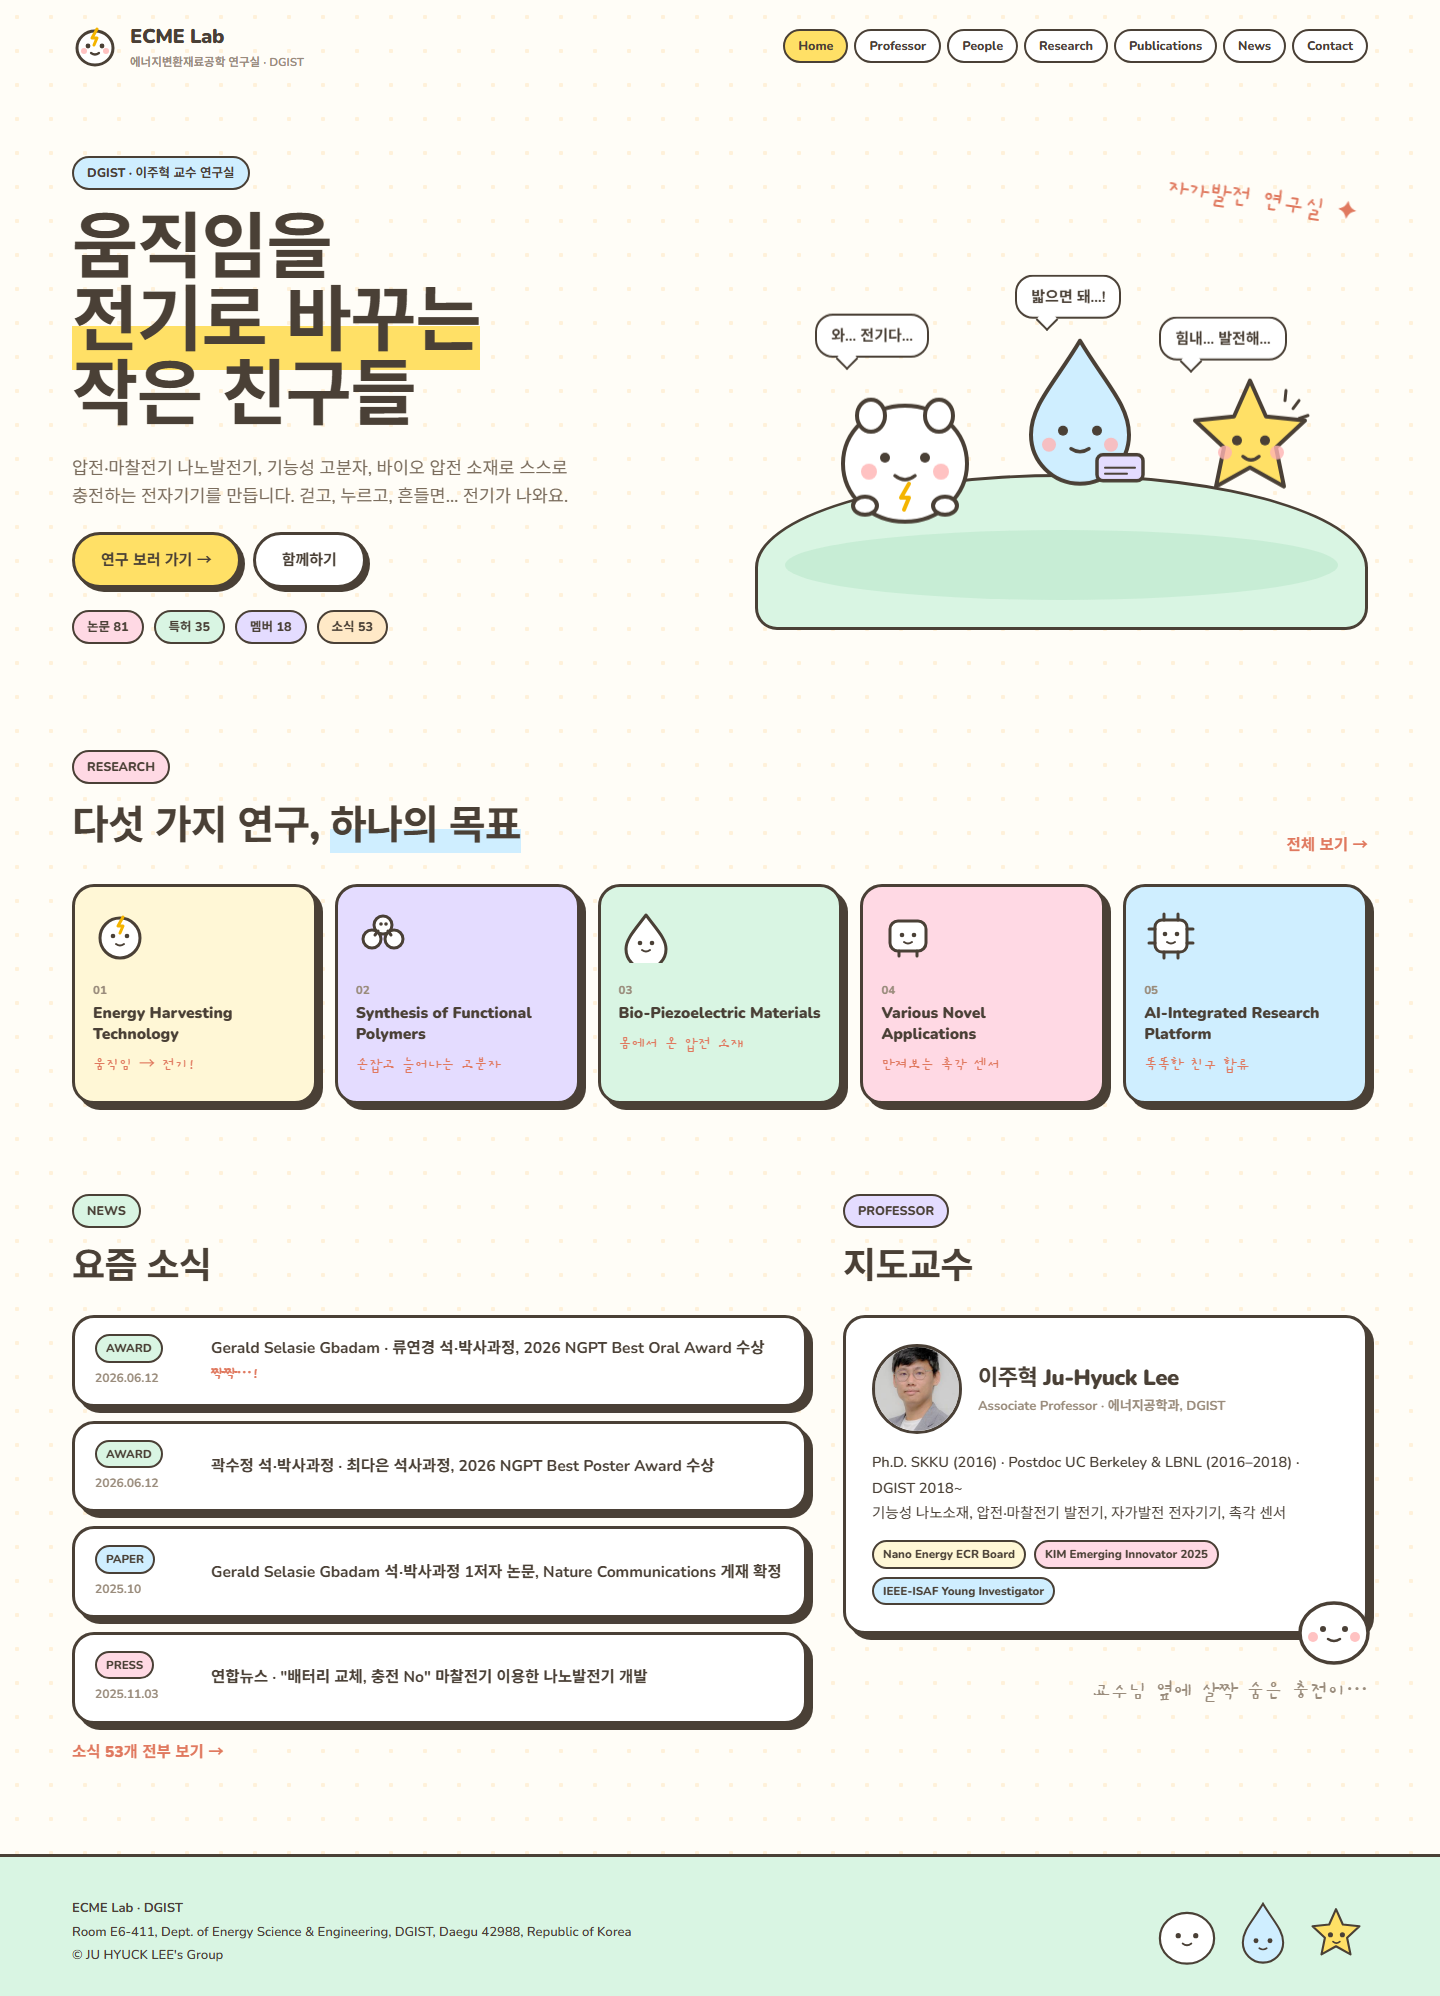
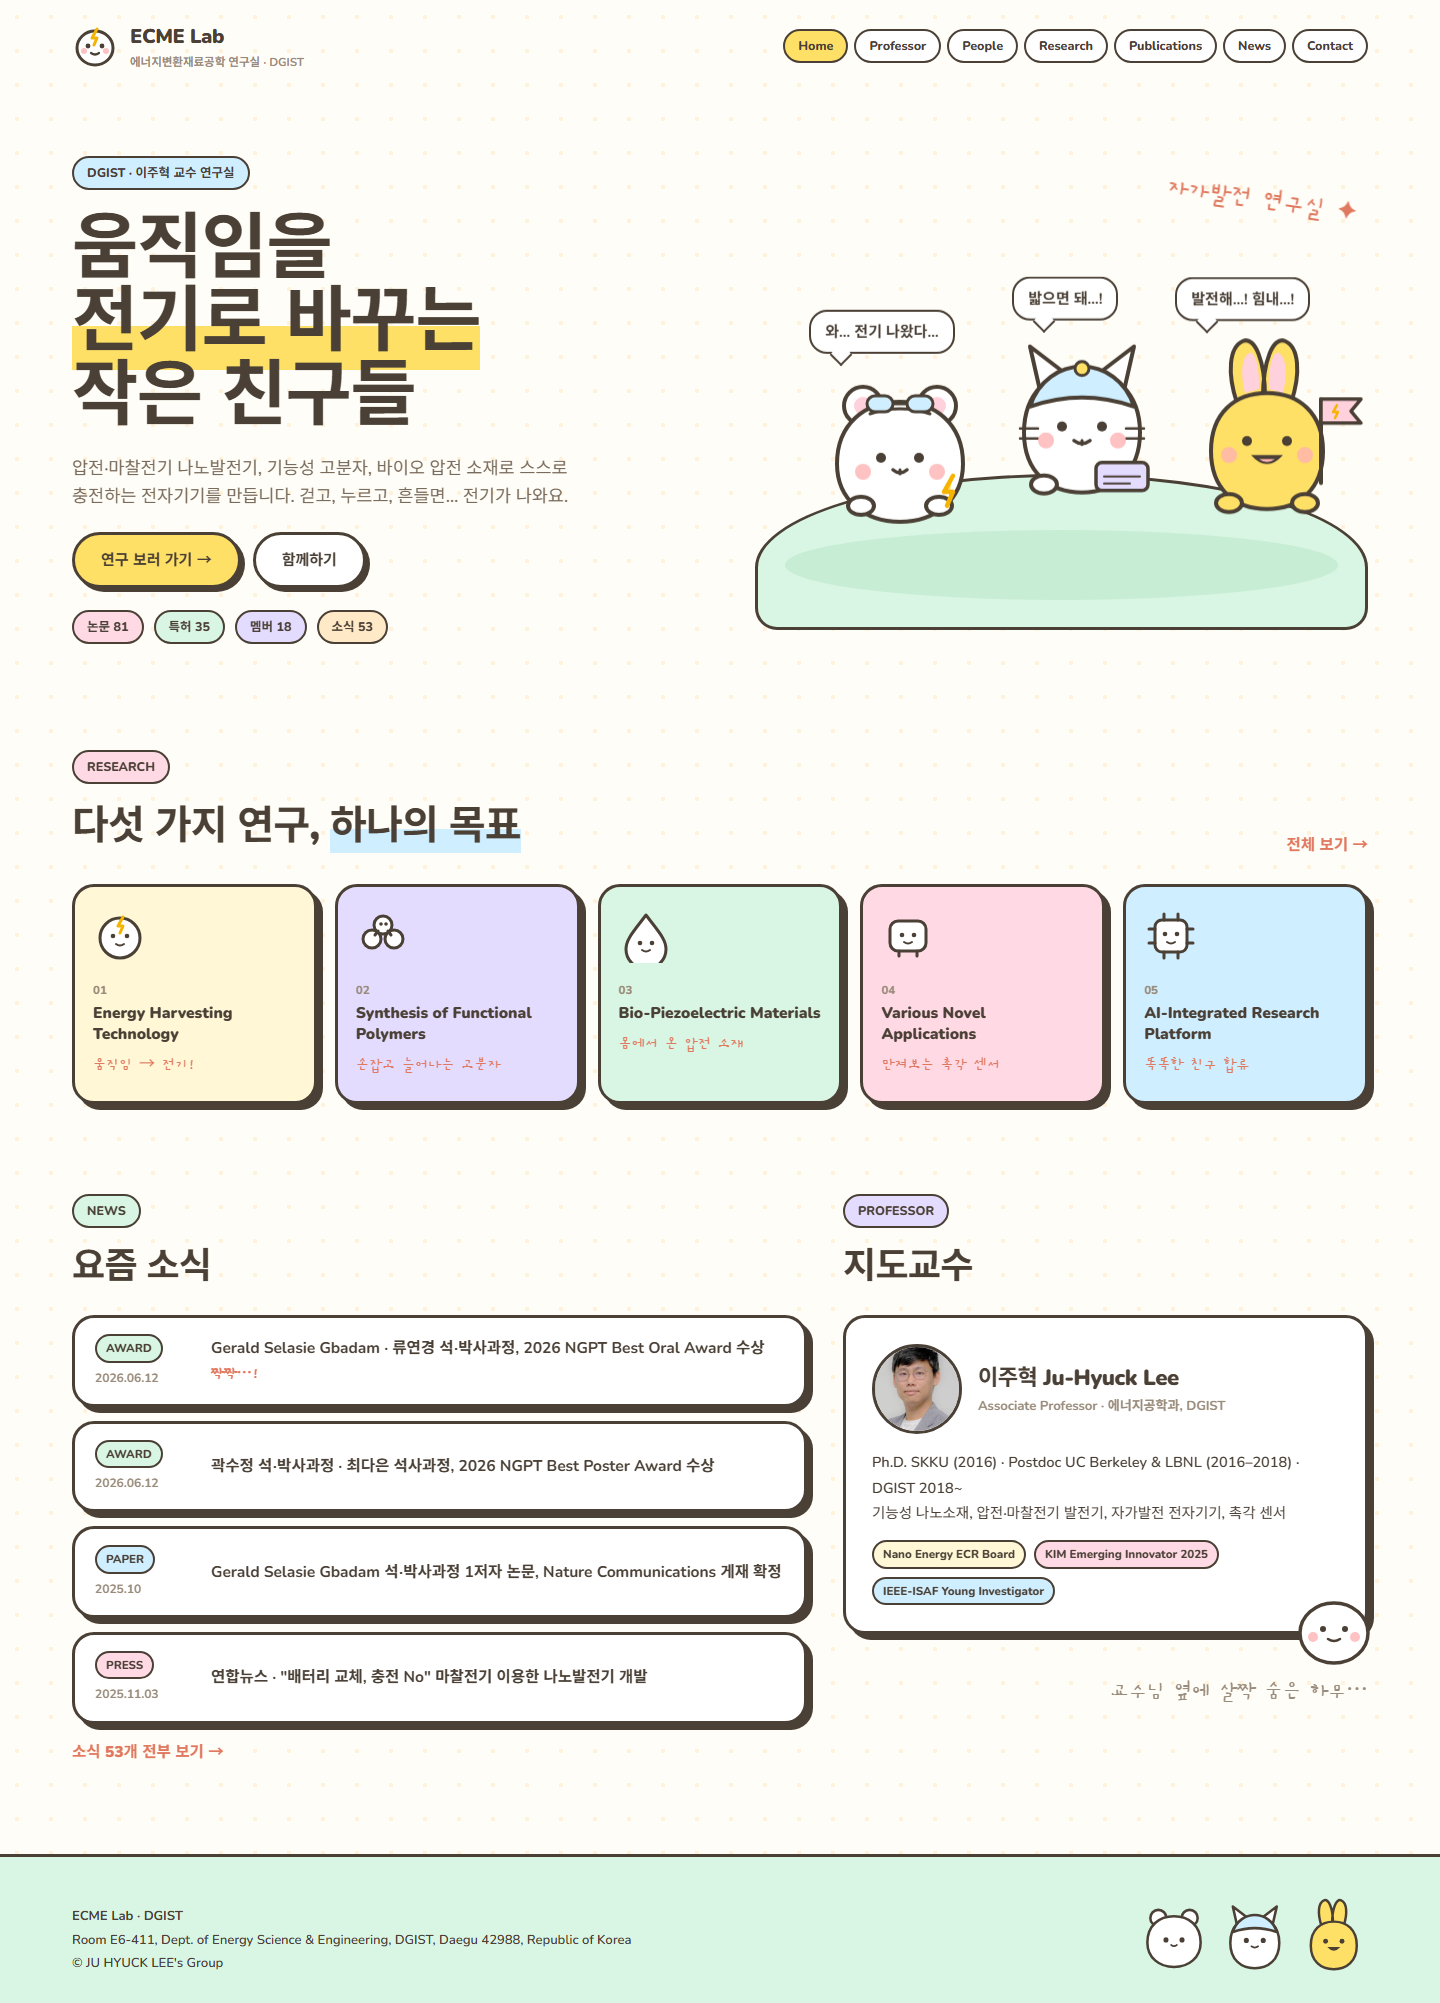
Mascot draft CH: redraw trio (hamster, cat, rabbit) as lab mascots

diff --git a/design-drafts/DirectionCH.dc.html b/design-drafts/DirectionCH.dc.html
@@ -55,20 +55,52 @@
     <div style="position: relative; height: 520px;">
       <div style="position: absolute; left: 0; right: 0; bottom: 30px; height: 150px; background: #d9f5e3; border: 3px solid #4a4036; border-radius: 50% 50% 22px 22px / 60% 60% 22px 22px;"></div>
       <div style="position: absolute; left: 30px; right: 30px; bottom: 60px; height: 70px; background: #bfe9cf; border-radius: 50%; opacity: .7;"></div>
-      <!-- mascot 1: 충전이 (round white blob, lightning belly) -->
-      <div class="ch-bob" style="position: absolute; left: 70px; bottom: 120px;">
-        <div class="ch-bubble" style="left: -10px; top: -58px;">와… 전기다…</div>
-        <svg width="160" height="160" viewBox="0 0 160 160"><ellipse cx="80" cy="92" rx="62" ry="58" fill="#fff" stroke="#4a4036" stroke-width="4"/><ellipse cx="46" cy="44" rx="14" ry="16" fill="#fff" stroke="#4a4036" stroke-width="4"/><ellipse cx="114" cy="44" rx="14" ry="16" fill="#fff" stroke="#4a4036" stroke-width="4"/><circle cx="60" cy="86" r="5" fill="#4a4036"/><circle cx="100" cy="86" r="5" fill="#4a4036"/><path d="M70 104q10 8 20 0" stroke="#4a4036" stroke-width="3.5" fill="none" stroke-linecap="round"/><circle cx="44" cy="100" r="8" fill="#ffb3b3" opacity=".8"/><circle cx="116" cy="100" r="8" fill="#ffb3b3" opacity=".8"/><path d="M84 112l-8 14h8l-5 12" stroke="#f4b400" stroke-width="4" fill="none" stroke-linecap="round" stroke-linejoin="round"/><ellipse cx="40" cy="134" rx="12" ry="9" fill="#fff" stroke="#4a4036" stroke-width="4"/><ellipse cx="120" cy="134" rx="12" ry="9" fill="#fff" stroke="#4a4036" stroke-width="4"/></svg>
+      <!-- mascot 1: 하무 — hamster-like, white, round ears, goggles on head, holding a lightning bolt -->
+      <div class="ch-bob" style="position: absolute; left: 60px; bottom: 110px;">
+        <div class="ch-bubble" style="left: -6px; top: -56px;">와… 전기 나왔다…</div>
+        <svg width="170" height="175" viewBox="0 0 170 175">
+          <circle cx="48" cy="40" r="19" fill="#fff" stroke="#4a4036" stroke-width="4"/><circle cx="48" cy="40" r="9" fill="#ffd1dc"/>
+          <circle cx="122" cy="40" r="19" fill="#fff" stroke="#4a4036" stroke-width="4"/><circle cx="122" cy="40" r="9" fill="#ffd1dc"/>
+          <path d="M22 98c0-40 28-62 63-62s63 22 63 62c0 36-28 58-63 58S22 134 22 98z" fill="#fff" stroke="#4a4036" stroke-width="4"/>
+          <path d="M55 48q30-10 60 0" stroke="#4a4036" stroke-width="3" fill="none" stroke-linecap="round"/>
+          <rect x="52" y="30" width="26" height="16" rx="8" fill="#cfeeff" stroke="#4a4036" stroke-width="3"/><rect x="92" y="30" width="26" height="16" rx="8" fill="#cfeeff" stroke="#4a4036" stroke-width="3"/><path d="M78 38h14" stroke="#4a4036" stroke-width="3"/>
+          <circle cx="66" cy="92" r="5" fill="#4a4036"/><circle cx="104" cy="92" r="5" fill="#4a4036"/>
+          <path d="M78 104q7 6 14 0" stroke="#4a4036" stroke-width="3.5" fill="none" stroke-linecap="round"/><path d="M85 104v4" stroke="#4a4036" stroke-width="3" stroke-linecap="round"/>
+          <circle cx="48" cy="106" r="8" fill="#ffb3b3" opacity=".8"/><circle cx="122" cy="106" r="8" fill="#ffb3b3" opacity=".8"/>
+          <ellipse cx="46" cy="140" rx="13" ry="9" fill="#fff" stroke="#4a4036" stroke-width="4"/><ellipse cx="124" cy="140" rx="13" ry="9" fill="#fff" stroke="#4a4036" stroke-width="4"/>
+          <path d="M138 110l-9 16h9l-6 14" stroke="#f4b400" stroke-width="4.5" fill="#ffe066" stroke-linecap="round" stroke-linejoin="round"/>
+        </svg>
       </div>
-      <!-- mascot 2: 압전이 (blue droplet) holding a tile -->
-      <div class="ch-bob ch-bob2" style="position: absolute; left: 250px; bottom: 150px;">
-        <div class="ch-bubble" style="left: 10px; top: -52px;">밟으면 돼…!</div>
-        <svg width="150" height="170" viewBox="0 0 150 170"><path d="M75 14C50 56 26 78 26 108a49 49 0 0 0 98 0c0-30-24-52-49-94z" fill="#cfeeff" stroke="#4a4036" stroke-width="4" stroke-linejoin="round"/><circle cx="58" cy="104" r="5" fill="#4a4036"/><circle cx="92" cy="104" r="5" fill="#4a4036"/><path d="M66 122q9 6 18 0" stroke="#4a4036" stroke-width="3.5" fill="none" stroke-linecap="round"/><circle cx="44" cy="118" r="7" fill="#ffb3b3" opacity=".8"/><circle cx="106" cy="118" r="7" fill="#ffb3b3" opacity=".8"/><rect x="92" y="128" width="46" height="26" rx="6" fill="#e4dcff" stroke="#4a4036" stroke-width="3.5"/><path d="M100 141h30M100 147h22" stroke="#4a4036" stroke-width="2" stroke-linecap="round"/></svg>
+      <!-- mascot 2: 나비 — cat-like, white with a pale-blue lab beanie, whiskers, holding a nanogenerator tile -->
+      <div class="ch-bob ch-bob2" style="position: absolute; left: 245px; bottom: 140px;">
+        <div class="ch-bubble" style="left: 12px; top: -52px;">밟으면 돼…!</div>
+        <svg width="165" height="180" viewBox="0 0 165 180">
+          <path d="M40 62L30 18l34 26zM124 62l10-44-34 26z" fill="#fff" stroke="#4a4036" stroke-width="4" stroke-linejoin="round"/>
+          <path d="M24 104c0-40 26-62 58-62s58 22 58 62-26 60-58 60-58-20-58-60z" fill="#fff" stroke="#4a4036" stroke-width="4"/>
+          <path d="M30 78c8-26 30-40 52-40s44 14 52 40c-18-6-36-9-52-9s-34 3-52 9z" fill="#cfeeff" stroke="#4a4036" stroke-width="4" stroke-linejoin="round"/>
+          <circle cx="82" cy="40" r="7" fill="#ffe066" stroke="#4a4036" stroke-width="3"/>
+          <circle cx="62" cy="98" r="5" fill="#4a4036"/><circle cx="102" cy="98" r="5" fill="#4a4036"/>
+          <path d="M74 112q8 6 16 0" stroke="#4a4036" stroke-width="3.5" fill="none" stroke-linecap="round"/><path d="M82 112v4" stroke="#4a4036" stroke-width="3" stroke-linecap="round"/>
+          <path d="M20 100h18M20 110h18M126 100h18M126 110h18" stroke="#4a4036" stroke-width="2.5" stroke-linecap="round"/>
+          <circle cx="46" cy="112" r="8" fill="#ffb3b3" opacity=".8"/><circle cx="118" cy="112" r="8" fill="#ffb3b3" opacity=".8"/>
+          <rect x="96" y="134" width="52" height="28" rx="6" fill="#e4dcff" stroke="#4a4036" stroke-width="3.5"/><path d="M104 148h36M104 155h26" stroke="#4a4036" stroke-width="2" stroke-linecap="round"/>
+          <ellipse cx="44" cy="156" rx="13" ry="9" fill="#fff" stroke="#4a4036" stroke-width="4"/>
+        </svg>
       </div>
-      <!-- mascot 3: 마찰이 (yellow star-ish) -->
-      <div class="ch-bob ch-bob3" style="position: absolute; left: 420px; bottom: 125px;">
-        <div class="ch-bubble" style="left: -16px; top: -52px;">힘내… 발전해…</div>
-        <svg width="150" height="150" viewBox="0 0 150 150"><path d="M75 12l16 36 39 4-29 27 8 39-34-19-34 19 8-39L20 52l39-4z" fill="#ffe066" stroke="#4a4036" stroke-width="4" stroke-linejoin="round"/><circle cx="62" cy="72" r="5" fill="#4a4036"/><circle cx="90" cy="72" r="5" fill="#4a4036"/><path d="M68 88q8 7 16 0" stroke="#4a4036" stroke-width="3.5" fill="none" stroke-linecap="round"/><circle cx="50" cy="84" r="7" fill="#ffb3b3" opacity=".8"/><circle cx="102" cy="84" r="7" fill="#ffb3b3" opacity=".8"/><path d="M118 40l6-8M124 50l9-3M110 32l1-10" stroke="#4a4036" stroke-width="3" stroke-linecap="round"/></svg>
+      <!-- mascot 3: 토토 — rabbit-like, yellow, long ears, wide happy mouth, waving a flag -->
+      <div class="ch-bob ch-bob3" style="position: absolute; left: 430px; bottom: 120px;">
+        <div class="ch-bubble" style="left: -10px; top: -56px;">발전해…! 힘내…!</div>
+        <svg width="190" height="190" viewBox="0 0 190 190">
+          <path d="M52 70c-10-30-8-56 6-62 12-5 22 20 22 56zM106 70c10-30 8-56-6-62-12-5-22 20-22 56z" fill="#ffe066" stroke="#4a4036" stroke-width="4" stroke-linejoin="round"/>
+          <path d="M60 60c-5-20-3-36 4-40 6-3 11 14 10 36zM98 60c5-20 3-36-4-40-6-3-11 14-10 36z" fill="#ffd1dc"/>
+          <path d="M26 118c0-38 24-58 56-58s56 20 56 58-24 58-56 58-56-20-56-58z" fill="#ffe066" stroke="#4a4036" stroke-width="4"/>
+          <circle cx="62" cy="108" r="5" fill="#4a4036"/><circle cx="102" cy="108" r="5" fill="#4a4036"/>
+          <path d="M66 122q16 18 32 0z" fill="#4a4036"/><path d="M74 126q8 6 16 0" fill="#ffb3b3"/>
+          <circle cx="44" cy="122" r="8" fill="#ffb3b3" opacity=".8"/><circle cx="120" cy="122" r="8" fill="#ffb3b3" opacity=".8"/>
+          <ellipse cx="44" cy="170" rx="13" ry="9" fill="#ffe066" stroke="#4a4036" stroke-width="4"/><ellipse cx="120" cy="170" rx="13" ry="9" fill="#ffe066" stroke="#4a4036" stroke-width="4"/>
+          <path d="M136 150V66" stroke="#4a4036" stroke-width="4" stroke-linecap="round"/><path d="M136 66h40l-10 12 10 12h-40z" fill="#ffd1dc" stroke="#4a4036" stroke-width="3.5" stroke-linejoin="round"/>
+          <path d="M152 72l-4 7h5l-3 6" stroke="#f4b400" stroke-width="2.5" fill="none" stroke-linecap="round" stroke-linejoin="round"/>
+        </svg>
       </div>
       <div class="ch-hand" style="position: absolute; right: 10px; top: 40px; font-size: 26px; color: #e0795f; transform: rotate(8deg);">자가발전 연구실 ✦</div>
     </div>
@@ -107,7 +139,7 @@
         <div style="display: flex; flex-wrap: wrap; gap: 8px; margin-top: 14px;"><span class="ch-tag" style="background: #fff7d6;">Nano Energy ECR Board</span><span class="ch-tag" style="background: #ffd9e4;">KIM Emerging Innovator 2025</span><span class="ch-tag" style="background: #cfeeff;">IEEE-ISAF Young Investigator</span></div>
         <svg width="90" height="80" viewBox="0 0 90 80" style="position: absolute; right: -14px; bottom: -34px;"><ellipse cx="45" cy="48" rx="34" ry="30" fill="#fff" stroke="#4a4036" stroke-width="3.5"/><circle cx="34" cy="44" r="3" fill="#4a4036"/><circle cx="56" cy="44" r="3" fill="#4a4036"/><path d="M39 54q6 4 12 0" stroke="#4a4036" stroke-width="2.5" fill="none" stroke-linecap="round"/><circle cx="24" cy="52" r="5" fill="#ffb3b3" opacity=".8"/><circle cx="66" cy="52" r="5" fill="#ffb3b3" opacity=".8"/></svg>
       </div>
-      <div class="ch-hand" style="margin-top: 40px; font-size: 22px; color: #9a8c7c; text-align: right;">교수님 옆에 살짝 숨은 충전이…</div>
+      <div class="ch-hand" style="margin-top: 40px; font-size: 22px; color: #9a8c7c; text-align: right;">교수님 옆에 살짝 숨은 하무…</div>
     </div>
   </div>
   <!-- footer hill -->
@@ -115,9 +147,9 @@
     <div style="display: flex; justify-content: space-between; align-items: flex-end;">
       <div style="font-size: 13px; color: #4a4036; line-height: 1.8;"><b>ECME Lab · DGIST</b><br>Room E6-411, Dept. of Energy Science &amp; Engineering, DGIST, Daegu 42988, Republic of Korea<br>© JU HYUCK LEE's Group</div>
       <div style="display: flex; gap: 10px; align-items: flex-end;">
-        <svg width="70" height="70" viewBox="0 0 160 160"><ellipse cx="80" cy="92" rx="62" ry="58" fill="#fff" stroke="#4a4036" stroke-width="5"/><circle cx="60" cy="86" r="6" fill="#4a4036"/><circle cx="100" cy="86" r="6" fill="#4a4036"/><path d="M70 104q10 8 20 0" stroke="#4a4036" stroke-width="4" fill="none" stroke-linecap="round"/></svg>
-        <svg width="62" height="70" viewBox="0 0 150 170"><path d="M75 14C50 56 26 78 26 108a49 49 0 0 0 98 0c0-30-24-52-49-94z" fill="#cfeeff" stroke="#4a4036" stroke-width="5"/><circle cx="58" cy="104" r="6" fill="#4a4036"/><circle cx="92" cy="104" r="6" fill="#4a4036"/><path d="M66 122q9 6 18 0" stroke="#4a4036" stroke-width="4" fill="none" stroke-linecap="round"/></svg>
-        <svg width="64" height="64" viewBox="0 0 150 150"><path d="M75 12l16 36 39 4-29 27 8 39-34-19-34 19 8-39L20 52l39-4z" fill="#ffe066" stroke="#4a4036" stroke-width="5" stroke-linejoin="round"/><circle cx="62" cy="72" r="6" fill="#4a4036"/><circle cx="90" cy="72" r="6" fill="#4a4036"/><path d="M68 88q8 7 16 0" stroke="#4a4036" stroke-width="4" fill="none" stroke-linecap="round"/></svg>
+        <svg width="72" height="74" viewBox="0 0 170 175"><circle cx="48" cy="40" r="19" fill="#fff" stroke="#4a4036" stroke-width="6"/><circle cx="122" cy="40" r="19" fill="#fff" stroke="#4a4036" stroke-width="6"/><path d="M22 98c0-40 28-62 63-62s63 22 63 62c0 36-28 58-63 58S22 134 22 98z" fill="#fff" stroke="#4a4036" stroke-width="6"/><circle cx="66" cy="92" r="6" fill="#4a4036"/><circle cx="104" cy="92" r="6" fill="#4a4036"/><path d="M78 104q7 6 14 0" stroke="#4a4036" stroke-width="4" fill="none" stroke-linecap="round"/></svg>
+        <svg width="70" height="76" viewBox="0 0 165 180"><path d="M40 62L30 18l34 26zM124 62l10-44-34 26z" fill="#fff" stroke="#4a4036" stroke-width="6" stroke-linejoin="round"/><path d="M24 104c0-40 26-62 58-62s58 22 58 62-26 60-58 60-58-20-58-60z" fill="#fff" stroke="#4a4036" stroke-width="6"/><path d="M30 78c8-26 30-40 52-40s44 14 52 40c-18-6-36-9-52-9s-34 3-52 9z" fill="#cfeeff" stroke="#4a4036" stroke-width="6" stroke-linejoin="round"/><circle cx="62" cy="98" r="6" fill="#4a4036"/><circle cx="102" cy="98" r="6" fill="#4a4036"/><path d="M74 112q8 6 16 0" stroke="#4a4036" stroke-width="4" fill="none" stroke-linecap="round"/></svg>
+        <svg width="68" height="78" viewBox="0 0 165 190"><path d="M52 70c-10-30-8-56 6-62 12-5 22 20 22 56zM106 70c10-30 8-56-6-62-12-5-22 20-22 56z" fill="#ffe066" stroke="#4a4036" stroke-width="6" stroke-linejoin="round"/><path d="M26 118c0-38 24-58 56-58s56 20 56 58-24 58-56 58-56-20-56-58z" fill="#ffe066" stroke="#4a4036" stroke-width="6"/><circle cx="62" cy="108" r="6" fill="#4a4036"/><circle cx="102" cy="108" r="6" fill="#4a4036"/><path d="M66 122q16 18 32 0z" fill="#4a4036"/></svg>
       </div>
     </div>
   </div>
